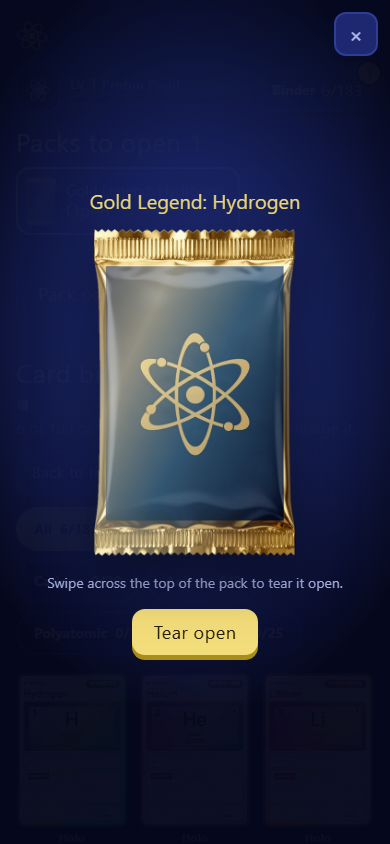
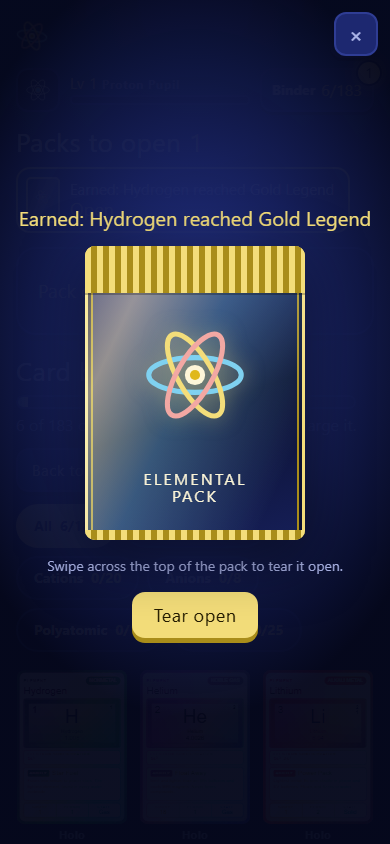
Daily practice pack and clearer pack labels
Signed in: the first finished room round or VS match each day (any result)
earns one pack ('day:YYYY-MM-DD' in packLog, synced, so one per day across
devices). Signing in alone pays nothing; a once-a-day pop-up at sign-in
says today's pack is waiting (complete 1 room or VS match; practice daily).
Guests do not get it. Labels now say why a pack was earned: 'Earned: VS
win', 'Earned: <card> reached Gold Legend', 'Earned: daily practice'.

Tests: reminder once a day, first round pays, second does not, VS loser
still gets the daily pack, synced claim on a second device, guests never,
labels. The test fixture hides the pop-up unless a test asks for it.
vs.js v=10.

Changed region(s): [[0.0308, 0.2156, 0.9538, 0.8009]]

diff --git a/index.html b/index.html
@@ -306,6 +306,11 @@ main.enter>*{animation:fadeIn .3s backwards}
 .packrow{display:flex;gap:12px;flex-wrap:wrap;margin:10px 0 14px}
 .minipack{display:flex;align-items:center;gap:10px;min-height:44px;padding:8px 14px 8px 8px;border-radius:14px;border:2px solid var(--gold);background:var(--panel2);color:var(--text);font:400 15px/1.2 var(--body);cursor:pointer;text-align:left}
 .minipack b{display:block;font:400 18px/1.1 var(--display);color:var(--gold);margin-top:2px}
+#daily .modal{z-index:80}
+.dailybox{max-width:340px;text-align:center;display:flex;flex-direction:column;align-items:center;gap:6px}
+.dailybox .pkart.lg{width:120px;margin-bottom:6px}
+.dailybox p{margin:0}
+.dailybox .actions{display:flex;gap:10px;margin-top:12px;flex-wrap:wrap;justify-content:center}
 .odds{margin-top:6px}
 .odds summary{cursor:pointer;min-height:44px;display:flex;align-items:center;font:400 19px/1.2 var(--display);color:var(--gold)}
 .oddsgrid{display:grid;grid-template-columns:repeat(auto-fit,minmax(220px,1fr));gap:12px;margin:10px 0}
@@ -1059,7 +1064,7 @@ function earnPack(reason,ref){
   if(S.packLog.includes(id)||S.packs.some(p=>p.id===id))return false;
   const at=Date.now(),seed=(Math.random()*4294967296)>>>0,week=weekOf(at);
   const p={id,at,reason,seed,week,slots:rollPack(seed,week,packHave())};
-  if(reason==='vs')p.matchId=String(ref);else p.cardId=String(ref);
+  if(reason==='vs')p.matchId=String(ref);else if(reason==='day')p.day=String(ref);else p.cardId=String(ref);
   S.packs.push(p);S.packLog.push(id);save();
   toast('Pack earned! Open it from your binder.');
   const b=document.querySelector('[data-act="binder"]');if(b)b.outerHTML=binderBtnHTML();
@@ -1076,6 +1081,30 @@ function applyPack(p){
   S.packs=S.packs.filter(q=>q.id!==p.id);
   if(!S.packLog.includes('open:'+p.id))S.packLog.push('open:'+p.id);
   save();
+}
+/* Daily pack: a signed-in student's first finished room round or VS match each day earns one pack. The key
+   'day:YYYY-MM-DD' (device's local date) goes into packLog, which syncs, so a second device the same day pays
+   nothing. Guests do not get it (it is also a reason to sign in). The first time a signed-in student opens the
+   game each day, a pop-up reminds them (only if today's pack is still unclaimed). */
+const dayKey=(d=new Date())=>d.getFullYear()+'-'+String(d.getMonth()+1).padStart(2,'0')+'-'+String(d.getDate()).padStart(2,'0');
+const dailyOpen=()=>!!ACCT&&!S.packLog.includes('day:'+dayKey());
+// Called when a room round or a VS match finishes. Returns true if it paid today's pack.
+function dailyPack(){return dailyOpen()&&earnPack('day',dayKey())}
+function dailyReminder(){
+  if(!dailyOpen()||window.__E2E_NO_DAILY_REMINDER)return;   // the test flag is set only by tests/helpers/fixtures.js
+  const k=KEY+'-daily-'+acctKey();
+  try{if(localStorage.getItem(k)===dayKey())return;localStorage.setItem(k,dayKey())}catch(e){}   // once a day per account on this device
+  if(document.getElementById('daily'))return;
+  const r=document.createElement('div');r.id='daily';
+  r.innerHTML='<div class="modal daily" role="dialog" aria-modal="true" aria-labelledby="daily-h" data-ui="daily-modal"><div class="panel dailybox">'+packArt('lg')+
+    '<h2 class="prompt" id="daily-h">Today\'s free pack is waiting!</h2><p>Complete <b>1 room</b> or <b>VS match</b> to earn it.</p><p class="sub">Practice every day to win a free pack.</p>'+
+    '<div class="actions"><button class="btn ghost" data-daily="later">Later</button><button class="btn" data-daily="play">Play a room</button></div></div></div>';
+  document.body.appendChild(r);
+  const b=r.querySelector('[data-daily="play"]');if(b)b.focus({preventScroll:true});
+  const close=()=>{r.remove();document.removeEventListener('keydown',esc1)};
+  const esc1=e=>{if(e.key==='Escape')close()};
+  document.addEventListener('keydown',esc1);
+  r.addEventListener('click',e=>{const t=e.target.closest('[data-daily]');if(!t)return;close();if(t.dataset.daily==='play'){V.roomMsg='';startRound(playRoom().id)}});
 }
 let TOASTT=0;
 function toast(msg){
@@ -1147,6 +1176,7 @@ function next(){
   V.lvBefore=levelInfo(S.xp).lvl;S.xp+=V.xpGain;V.lvAfter=levelInfo(S.xp).lvl;
   const k=V.roomId+'|'+V.deckId;S.stars[k]=Math.max(S.stars[k]||0,V.stars);
   S.rounds++;S.best=Math.max(S.best,V.best);save();
+  V.packReady=dailyPack();   // first finished round today: the daily pack
   V.screen='results';V.anim='results';V.fx=V.perfect?'perfect':'';tone('win');render();window.scrollTo(0,0);
 }
 
@@ -1258,7 +1288,7 @@ function resultsHTML(){
   const missed=V.missed.length?'<section><h2 class="h" style="font-size:22px">Review these</h2><p class="sub">Tap a name to see its card.</p><div class="chips" style="margin-top:10px">'+V.missed.map(id=>'<button class="chip" data-act="open" data-id="'+id+'">'+esc(BY[id].name)+'</button>').join('')+'</div></section>':'';
   return (S.rounds>0?noticeHTML():'')+'<div class="res"><section class="panel"><div class="qmeta">'+roomOf(V.roomId).name+' · '+DECKS.find(d=>d.id===V.deckId).name+'</div><h1 class="prompt" style="margin-bottom:10px">'+title+'</h1>'+starsHTML(V.stars,true)+nextStarHTML()+
   '<div class="stats" style="margin-top:16px"><div class="stat"><span>Correct</span><b data-count="'+correct+'" data-post="/'+V.qs.length+'">'+correct+'/'+V.qs.length+'</b></div><div class="stat"><span>Score</span><b data-count="'+V.score+'">'+V.score+'</b></div><div class="stat"><span>XP earned</span><b data-count="'+V.xpGain+'" data-pre="+">+'+V.xpGain+'</b></div><div class="stat"><span>Best streak</span><b data-count="'+V.best+'" data-pre="×">×'+V.best+'</b></div></div>'+
-  (V.perfect?'<p class="sub" style="margin-top:12px">Perfect round bonus: +20 XP.</p>':'')+'</section>'+lv+upsec+pack+missed+'</div>'+
+  (V.perfect?'<p class="sub" style="margin-top:12px">Perfect round bonus: +20 XP.</p>':'')+(V.packReady?'<p class="sub" data-ui="pack-ready" style="margin-top:12px"><b style="color:var(--gold)">Daily pack earned!</b> Open it from your binder. Come back tomorrow for another.</p>':'')+'</section>'+lv+upsec+pack+missed+'</div>'+
   '<div class="stickybar" data-ui="results-bar"><button class="btn ghost" data-act="home">Pick a room</button><button class="btn" data-act="again">Play again</button></div>';
 }
 function binderHTML(){
@@ -1275,7 +1305,8 @@ function binderHTML(){
   empty+'<div class="tabs" role="tablist" style="margin-bottom:18px">'+tabHTML+'</div><div class="grid">'+cells+'</div>';
 }
 /* Binder top: unopened packs, then the odds in plain numbers (straight from PACK_ODDS, so they cannot drift). */
-const packWhy=p=>p.reason==='vs'?'VS win':'Gold Legend: '+((BY[p.cardId]||{}).name||'a card');
+// Why the pack was earned (never what is inside).
+const packWhy=p=>p.reason==='vs'?'Earned: VS win':p.reason==='day'?'Earned: daily practice':'Earned: '+((BY[p.cardId]||{}).name||'a card')+' reached Gold Legend';
 // The pack itself (big and binder thumbnail) is generated art, img/pack.webp (design/pack-art.md) with a CSS sheen;
 // card backs keep the CSS foil design.
 const packArt=sz=>sz==='card'?'<span class="pkart card" aria-hidden="true"><span class="pkfoil"></span><span class="pklogo">'+atomLogo+'</span><span class="pkcrimp t"></span><span class="pkcrimp b"></span></span>'
@@ -1294,7 +1325,7 @@ function oddsHTML(){
   const lab={finish:'A special finish on one of your cards (Foil, Prism, Night Sky or Ember)',b0:'A Common icon',b1:'An Uncommon icon',b2:'A Rare icon',b3:'An Epic icon',gold:'A gold icon (any of the 50, picked evenly)',feat:"This week's gold: "+iconLabel(fg)};
   const t=(tab)=>tab.map(r=>row(r[1],r[0]==='xp'?'+'+r[2]+' XP':lab[r[0]])).join('');
   return '<details class="panel odds" data-ui="pack-odds"><summary>Pack odds: what is inside</summary>'+
-  '<p class="sub">Packs are earned, never bought. Win a VS Arena match (1st place, at least 2 players) or take a card to Gold Legend. Each pack has 3 cards, rolled when you earn it.</p>'+
+  '<p class="sub">Packs are earned, never bought. Win a VS Arena match (1st place, at least 2 players), take a card to Gold Legend, or (signed in) finish your first room or VS match of the day for a free daily pack. Each pack has 3 cards, rolled when you earn it.</p>'+
   '<div class="oddsgrid"><table class="vs-tbl"><caption>Card 1: the staple</caption>'+t(s1)+'</table><table class="vs-tbl"><caption>Card 2: the icon pull</caption>'+t(s2)+'</table><table class="vs-tbl"><caption>Card 3: the chase</caption>'+t(s3)+'</table></div>'+
   '<p class="feat" data-ui="weekly-gold">'+iconSVG(fg,40)+'<span><b>This week\'s gold: '+esc(iconLabel(fg))+'</b> 0.05% in card 3. It changes every Monday.</span></p>'+
   '<p class="sub"><b>Common (16):</b> '+bandNames(0)+'.<br><b>Uncommon (10):</b> '+bandNames(1)+'.<br><b>Rare (6):</b> '+bandNames(2)+'.<br><b>Epic (2):</b> '+bandNames(3)+'.</p>'+
@@ -1614,6 +1645,7 @@ function wireCloud(){
       if(local)save();
       if(V.screen==='account'||V.screen==='quiz'||V.screen==='results')V.screen='home';
       V.modal=null;render();
+      dailyReminder();   // after applyProg: the account's packLog says whether today's pack is already claimed
     }else if(ACCT){
       ACCT=null;SYNC='';loadGuest();V.screen='home';V.modal=null;render();
     }else render();
@@ -1647,7 +1679,7 @@ addEventListener('resize',()=>{mclr();clearTimeout(rz);rz=setTimeout(()=>{
 window.Arcade={QNS,S,V,BY,ALL,TIERS,tierOf,nextTier,tierShown,cardHTML,esc,tone,save,render,levelInfo,DECKS,ROOMS,deckItems,roomPool,roomOf,buildRound,THEMES,
   acct:()=>ACCT,
   ICONS,ICON_IDS,iconOf,iconSVG,iconGridHTML,setIcon,getIcon:()=>S.icon,
-  WIN_ICONS,GOLD_IDS,PACK_ODDS,FINISHES,GOLD_AT,earnPack,rollPack,packHave,applyPack,featuredGold,weekOf,openPack:id=>openPack(id),
+  WIN_ICONS,GOLD_IDS,PACK_ODDS,FINISHES,GOLD_AT,earnPack,dayKey,dailyPack,dailyReminder,rollPack,packHave,applyPack,featuredGold,weekOf,openPack:id=>openPack(id),
   goto:scr=>{V.anim='screen';V.screen=scr;V.authErr='';V.modal=null;render();window.scrollTo(0,0)},
   burst:(x,y,n,spread,cols)=>{if(!RM.matches)burst(x,y,n,spread,cols||['#f3dd7a','#7fd1f0','#f2a8a3','#fdf6d8','#4caf62'])}};
 render();
@@ -1655,6 +1687,6 @@ render();
 
 <!-- Bump ?v= whenever cloud.js or vs.js changes, so browsers do not mix a cached old file with new ones. -->
 <script type="module" src="cloud.js?v=5"></script>
-<script type="module" src="vs.js?v=9"></script>
+<script type="module" src="vs.js?v=10"></script>
 </body>
 </html>

diff --git a/tests/specs/packs.spec.js b/tests/specs/packs.spec.js
@@ -109,15 +109,17 @@ test.describe('earning', () => {
     const correct = await correctIndexes(host, arena, code);
     await Promise.all([playMatch(host, correct, () => ({ delay: 30 })), playMatch(kid, correct, () => ({ delay: 60, pick: 'wrong' }))]);
     for (const d of [host, kid]) await expect(d.page.locator('[data-vs="podium"]')).toBeVisible();
-    expect(await packs(host.page)).toEqual(['vs:' + code]);
-    expect(await packs(kid.page)).toEqual([]);
+    const today = await host.page.evaluate(() => 'day:' + Arcade.dayKey());
+    expect(await packs(host.page)).toEqual(['vs:' + code, today]);                     // the win, plus the first match of the day
+    expect(await packs(kid.page)).toEqual([today]);                                    // the loser: no win pack, but the daily one
+    await expect(kid.page.locator('[data-vs="daily-earned"]')).toBeVisible();
     await expect(host.page.locator('[data-vs="pack-earned"]')).toBeVisible();
     await expect(kid.page.locator('[data-vs="pack-earned"]')).toHaveCount(0);
     expect(await host.page.evaluate(c => Arcade.earnPack('vs', c), code)).toBe(false);   // the same match cannot pay twice
-    expect(await packs(host.page)).toEqual(['vs:' + code]);
+    expect(await packs(host.page)).toEqual(['vs:' + code, today]);
     // the pack reached the account (cloud save), and the rules accepted it
     const uid = await host.page.evaluate(() => Cloud.uid());
-    await expect.poll(() => (arena.backend.adminGet('players/' + uid).progress.packs || []).map(x => x.id), { timeout: 8000 }).toEqual(['vs:' + code]);
+    await expect.poll(() => (arena.backend.adminGet('players/' + uid).progress.packs || []).map(x => x.id), { timeout: 8000 }).toEqual(['vs:' + code, today]);
     expect(arena.backend.denials.filter(d => d.op !== 'get' && d.op !== 'list'), JSON.stringify(arena.backend.denials.slice(0, 2))).toEqual([]);
   });
 });
@@ -238,5 +240,71 @@ test.describe('signed in: merge and rules', () => {
     const g = await guest(arena); await g.join(code, { check: false, playerExtra: { icon: 'dragon-gold' } });
     await expectDenied(g.F.setDoc(g.ref('players', g.uid), { progress: {}, nick: 'x', cls: 'y', updated: g.F.serverTimestamp() }));   // guests still never write /players
     expect(host.uid).toBeTruthy();
+  });
+});
+
+test.describe('daily pack', () => {
+  // Play a whole solo round on the current screen (every answer right).
+  async function playRound(p) {
+    await p.locator('[data-act="play"]').click();
+    for (;;) {
+      await answerQ(p);
+      const nx = p.locator('[data-act="next"]');
+      await nx.click();
+      if (await p.locator('[data-ui="results-bar"]').count()) break;
+    }
+  }
+  test('signed in: a reminder pop-up once a day; the first finished room earns one pack; a second room does not', async ({ arena }) => {
+    const dev = await arena.device({ width: PHONE, dailyReminder: true }), p = dev.page;
+    await dev.goto('/');
+    await dev.signUp('class1', 'daily');
+    await expect(p.locator('[data-ui="daily-modal"]')).toBeVisible();
+    await expect(p.locator('[data-ui="daily-modal"]')).toContainText('Complete 1 room or VS match to earn it');
+    await expect(p.locator('[data-ui="daily-modal"]')).toContainText('Practice every day to win a free pack');
+    await p.waitForTimeout(300);
+    await p.screenshot({ path: SHOTS + 'daily-reminder-390.png' });
+    expect(await layoutProblems(p)).toEqual([]);
+    expect(await packs(p)).toEqual([]);                                                // signing in alone earns nothing
+    await p.locator('[data-daily="later"]').click();
+    await expect(p.locator('[data-ui="daily-modal"]')).toHaveCount(0);
+    await p.reload(); await p.waitForSelector('[data-act="deck"]'); await dev.cloudReady();
+    await expect(p.locator('[data-ui="daily-modal"]')).toHaveCount(0);                // once a day
+    await playRound(p);
+    const today = await p.evaluate(() => 'day:' + Arcade.dayKey());
+    expect(await packs(p)).toEqual([today]);
+    await expect(p.locator('[data-ui="pack-ready"]')).toContainText('Daily pack earned');
+    await p.locator('[data-act="home"]').first().click();
+    await playRound(p);
+    expect(await packs(p)).toEqual([today]);                                           // one per day
+    await expect(p.locator('[data-ui="pack-ready"]')).toHaveCount(0);
+    await p.locator('.iconbtn[data-act="binder"]').click();
+    await expect(p.locator('[data-act="pack-open"]')).toContainText('Earned: daily practice');
+    // the claim syncs: tomorrow on this account pays again, today on another device does not
+    const uid = await p.evaluate(() => Cloud.uid());
+    await expect.poll(() => (arena.backend.adminGet('players/' + uid).progress.packLog || []).includes(today), { timeout: 8000 }).toBe(true);
+    const other = await arena.device({ width: PHONE, dailyReminder: true }), q = other.page;
+    await other.goto('/'); await other.signIn('class1', 'daily');
+    await expect(q.locator('[data-ui="daily-modal"]')).toHaveCount(0);                 // already claimed today
+    expect(await q.evaluate(() => Arcade.dailyPack())).toBe(false);
+  });
+
+  test('the Play a room button starts a round; guests never get a daily pack or the pop-up', async ({ arena }) => {
+    const dev = await arena.device({ width: PHONE, dailyReminder: true }), p = dev.page;
+    await dev.goto('/');
+    await playRound(p);                                                                // guest
+    expect(await packs(p)).toEqual([]);
+    await expect(p.locator('[data-ui="daily-modal"]')).toHaveCount(0);
+    await p.locator('[data-act="home"]').first().click();
+    await dev.signUp('class1', 'player2');
+    await p.locator('[data-daily="play"]').click();
+    await expect(p.locator('.qmeta')).toBeVisible();
+  });
+
+  test('labels say why a pack was earned, not what is in it', async ({ arena }) => {
+    const dev = await arena.device({ firebase: 'blocked' }), p = dev.page;
+    await dev.goto('/');
+    const t = await p.evaluate(() => { const A = Arcade, it = A.ALL[0]; A.S.packs.push({ id: 'gold:' + it.id, reason: 'gold', cardId: it.id, slots: [] }, { id: 'vs:ABCDEF', reason: 'vs', matchId: 'ABCDEF', slots: [] }, { id: 'day:2026-10-10', reason: 'day', day: '2026-10-10', slots: [] }); A.render(); return it.name; });
+    await p.locator('[data-act="binder"]').click();
+    await expect(p.locator('[data-act="pack-open"]')).toHaveText([new RegExp('Earned: ' + t + ' reached Gold Legend'), /Earned: VS win/, /Earned: daily practice/]);
   });
 });

diff --git a/vs.js b/vs.js
@@ -1231,6 +1231,7 @@ function award() {
   // A win (1st place, at least 2 players who competed) earns one pack per match id. earnPack refuses a repeat, so
   // reopening this screen cannot pay twice; a rematch has a new id and can pay again. Guests earn packs too.
   if (finished && place === 1 && competed >= 2 && Arc.earnPack) rw.pack = Arc.earnPack('vs', R.code);
+  if (finished && answered && Arc.dailyPack) rw.daily = Arc.dailyPack();   // first finished VS match today (win or not): the daily pack
   R.rewards = rw;
   try { Arc.save(); } catch (e) { /* ignore */ }
   if (rw.lvAfter > rw.lvBefore) tone('level'); else tone('win');
@@ -1257,6 +1258,7 @@ function resultHTML() {
   if (rw.finished && !abandoned) {
     rewards = '<p class="vs-sub">You placed <b style="color:var(--gold)">' + ordinal(rw.place) + '</b> of ' + rw.total + '.' + (rw.bonus ? ' Placement bonus +' + rw.bonus + ' XP.' : '') + ' Cards earned: ' + rw.cards + '.</p>' +
       (rw.pack ? '<p data-vs="pack-earned"><span class="vs-pill">PACK EARNED: open it from your binder</span></p>' : '') +
+      (rw.daily ? '<p data-vs="daily-earned"><span class="vs-pill">DAILY PACK EARNED: open it from your binder</span></p>' : '') +
       (rw.lvAfter > rw.lvBefore ? '<p><span class="vs-pill">LEVEL UP: Lv ' + rw.lvAfter + ' ' + esc(Arc.levelInfo(S.xp).title) + '</span></p>' : '') +
       (rw.record ? '<p class="vs-sub" data-vs="vs-result-record">VS record: ' + rw.record.w + '-' + rw.record.l + (rw.record.streak ? ' &middot; streak ' + rw.record.streak : '') + '</p>' : '');
   } else rewards = '<p class="vs-sub">' + (meP.abandoned || R.kicked ? 'You were disconnected before the end, so there is no placement bonus.' : abandoned ? 'Everyone left before the end.' : 'No placement bonus this time.') + '</p>';

diff --git a/tests/helpers/fixtures.js b/tests/helpers/fixtures.js
@@ -54,7 +54,7 @@ export class Arena {
    * opts: width (390 phone | 1100 desktop), timeScale (window.VS_TIME_SCALE, default 0.1), firebase ('fake' | 'blocked'),
    *       height, fakeOptions (sdk options, e.g. {txMaxAttempts: 5})
    */
-  async device({ width = PHONE, height, timeScale = 0.1, firebase = 'fake', name = 'device' + (this.devices.length + 1), fakeOptions, reducedMotion = false, fonts = false } = {}) {
+  async device({ width = PHONE, height, timeScale = 0.1, firebase = 'fake', name = 'device' + (this.devices.length + 1), fakeOptions, reducedMotion = false, fonts = false, dailyReminder = false } = {}) {
     const phone = width < 600;
     const context = await this.browser.newContext({
       viewport: { width, height: height || (phone ? 844 : 800) }, hasTouch: phone, deviceScaleFactor: 1, reducedMotion: reducedMotion ? 'reduce' : 'no-preference'
@@ -62,6 +62,8 @@ export class Arena {
     if (!fonts) await stubFonts(context);   // fonts: true lets Google Fonts load (screenshots)
     if (firebase === 'fake') await useFakeFirebase(context, { options: fakeOptions });
     else if (firebase === 'blocked') await blockFirebase(context);
+    // The once-a-day sign-in pop-up would cover the page in every test that signs in; only daily-pack tests want it.
+    if (!dailyReminder) await context.addInitScript(() => { window.__E2E_NO_DAILY_REMINDER = true; });
     if (timeScale != null) this.backend.timeScale = timeScale;
     if (timeScale != null) await context.addInitScript(s => { window.VS_TIME_SCALE = s; }, timeScale);
     const page = await context.newPage();

diff --git a/README.md b/README.md
@@ -31,7 +31,7 @@ Students pick one of 16 preset icons (atom, bolt, flask and so on) from the icon
 
 ## Packs
 
-Students earn a pack in two ways: win a VS Arena match (1st place, with at least 2 players who competed; one pack per match), or take a card to Gold Legend for the first time (one pack per card, ever). Packs are earned only. There is nothing to buy.
+Students earn a pack in three ways: win a VS Arena match (1st place, with at least 2 players who competed; one pack per match), take a card to Gold Legend for the first time (one pack per card, ever), or, signed in, finish their first room round or VS match of the day (one daily pack per day; signing in alone does not earn it). The first time a signed-in student opens the game each day, a pop-up reminds them that today's free pack is waiting. Packs are earned only. There is nothing to buy.
 
 A gold badge on the Binder button counts unopened packs. Open one from the binder: swipe across the top of the pack (phone), or click it or press "Tear open" (computer). Three cards deal face down; tap each to flip it. With reduced motion turned on, the button says "Open" and the results appear at once.
 

diff --git a/design/pack-odds.md b/design/pack-odds.md
@@ -10,6 +10,7 @@ Packs are earned, never bought. There is no shop and no currency.
 |---|---|---|
 | VS Arena win | 1st place, with at least 2 players who answered at least one question | Once per match id. A rematch is a new match, so it can pay again. Reopening the result screen cannot. |
 | Gold Legend | The moment a card's correct-answer count first reaches 15 | Once per card, ever. Later correct answers on that card do not pay. |
+| Daily practice (signed in) | The first finished room round or VS match (any result) of the day, by the device's local date | Once per day (`day:YYYY-MM-DD`), synced across the student's devices. Signing in alone does not pay; a once-a-day pop-up at sign-in reminds them. Guests do not get it. |
 
 Each paid reason is recorded in `packLog` (`vs:CODE`, `gold:cardId`) when the pack is earned, so neither can double, even across devices.
 
